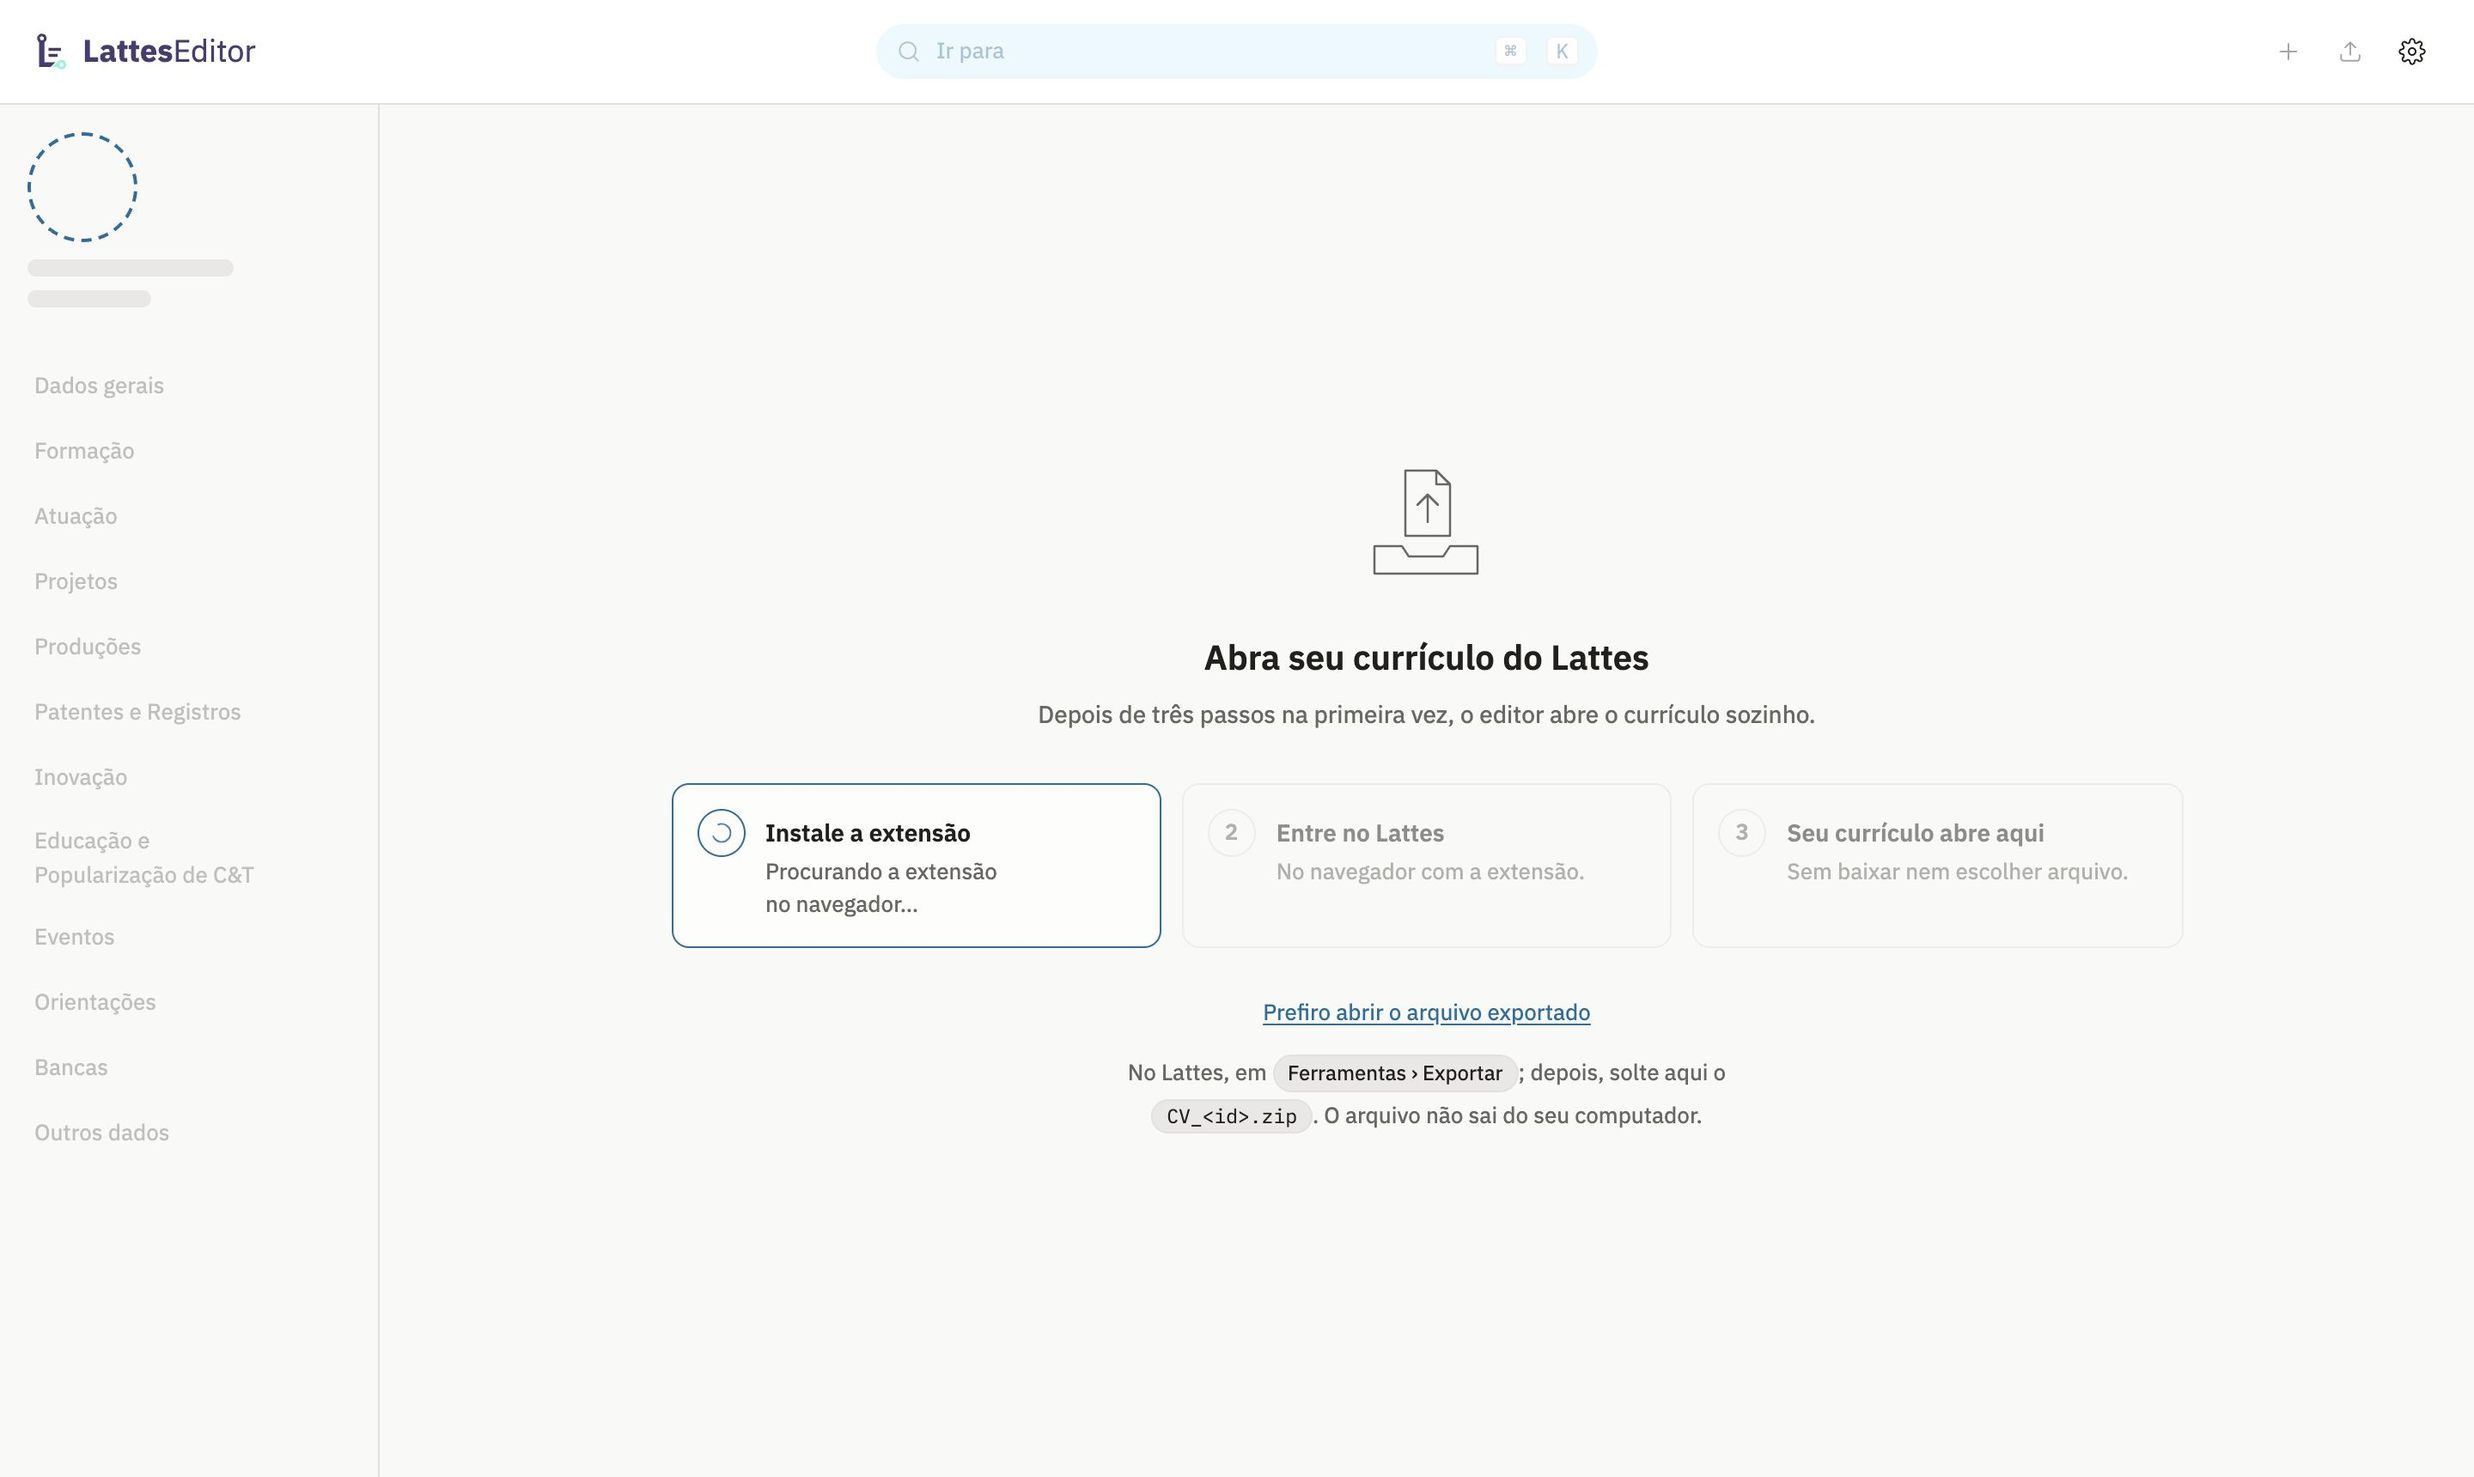
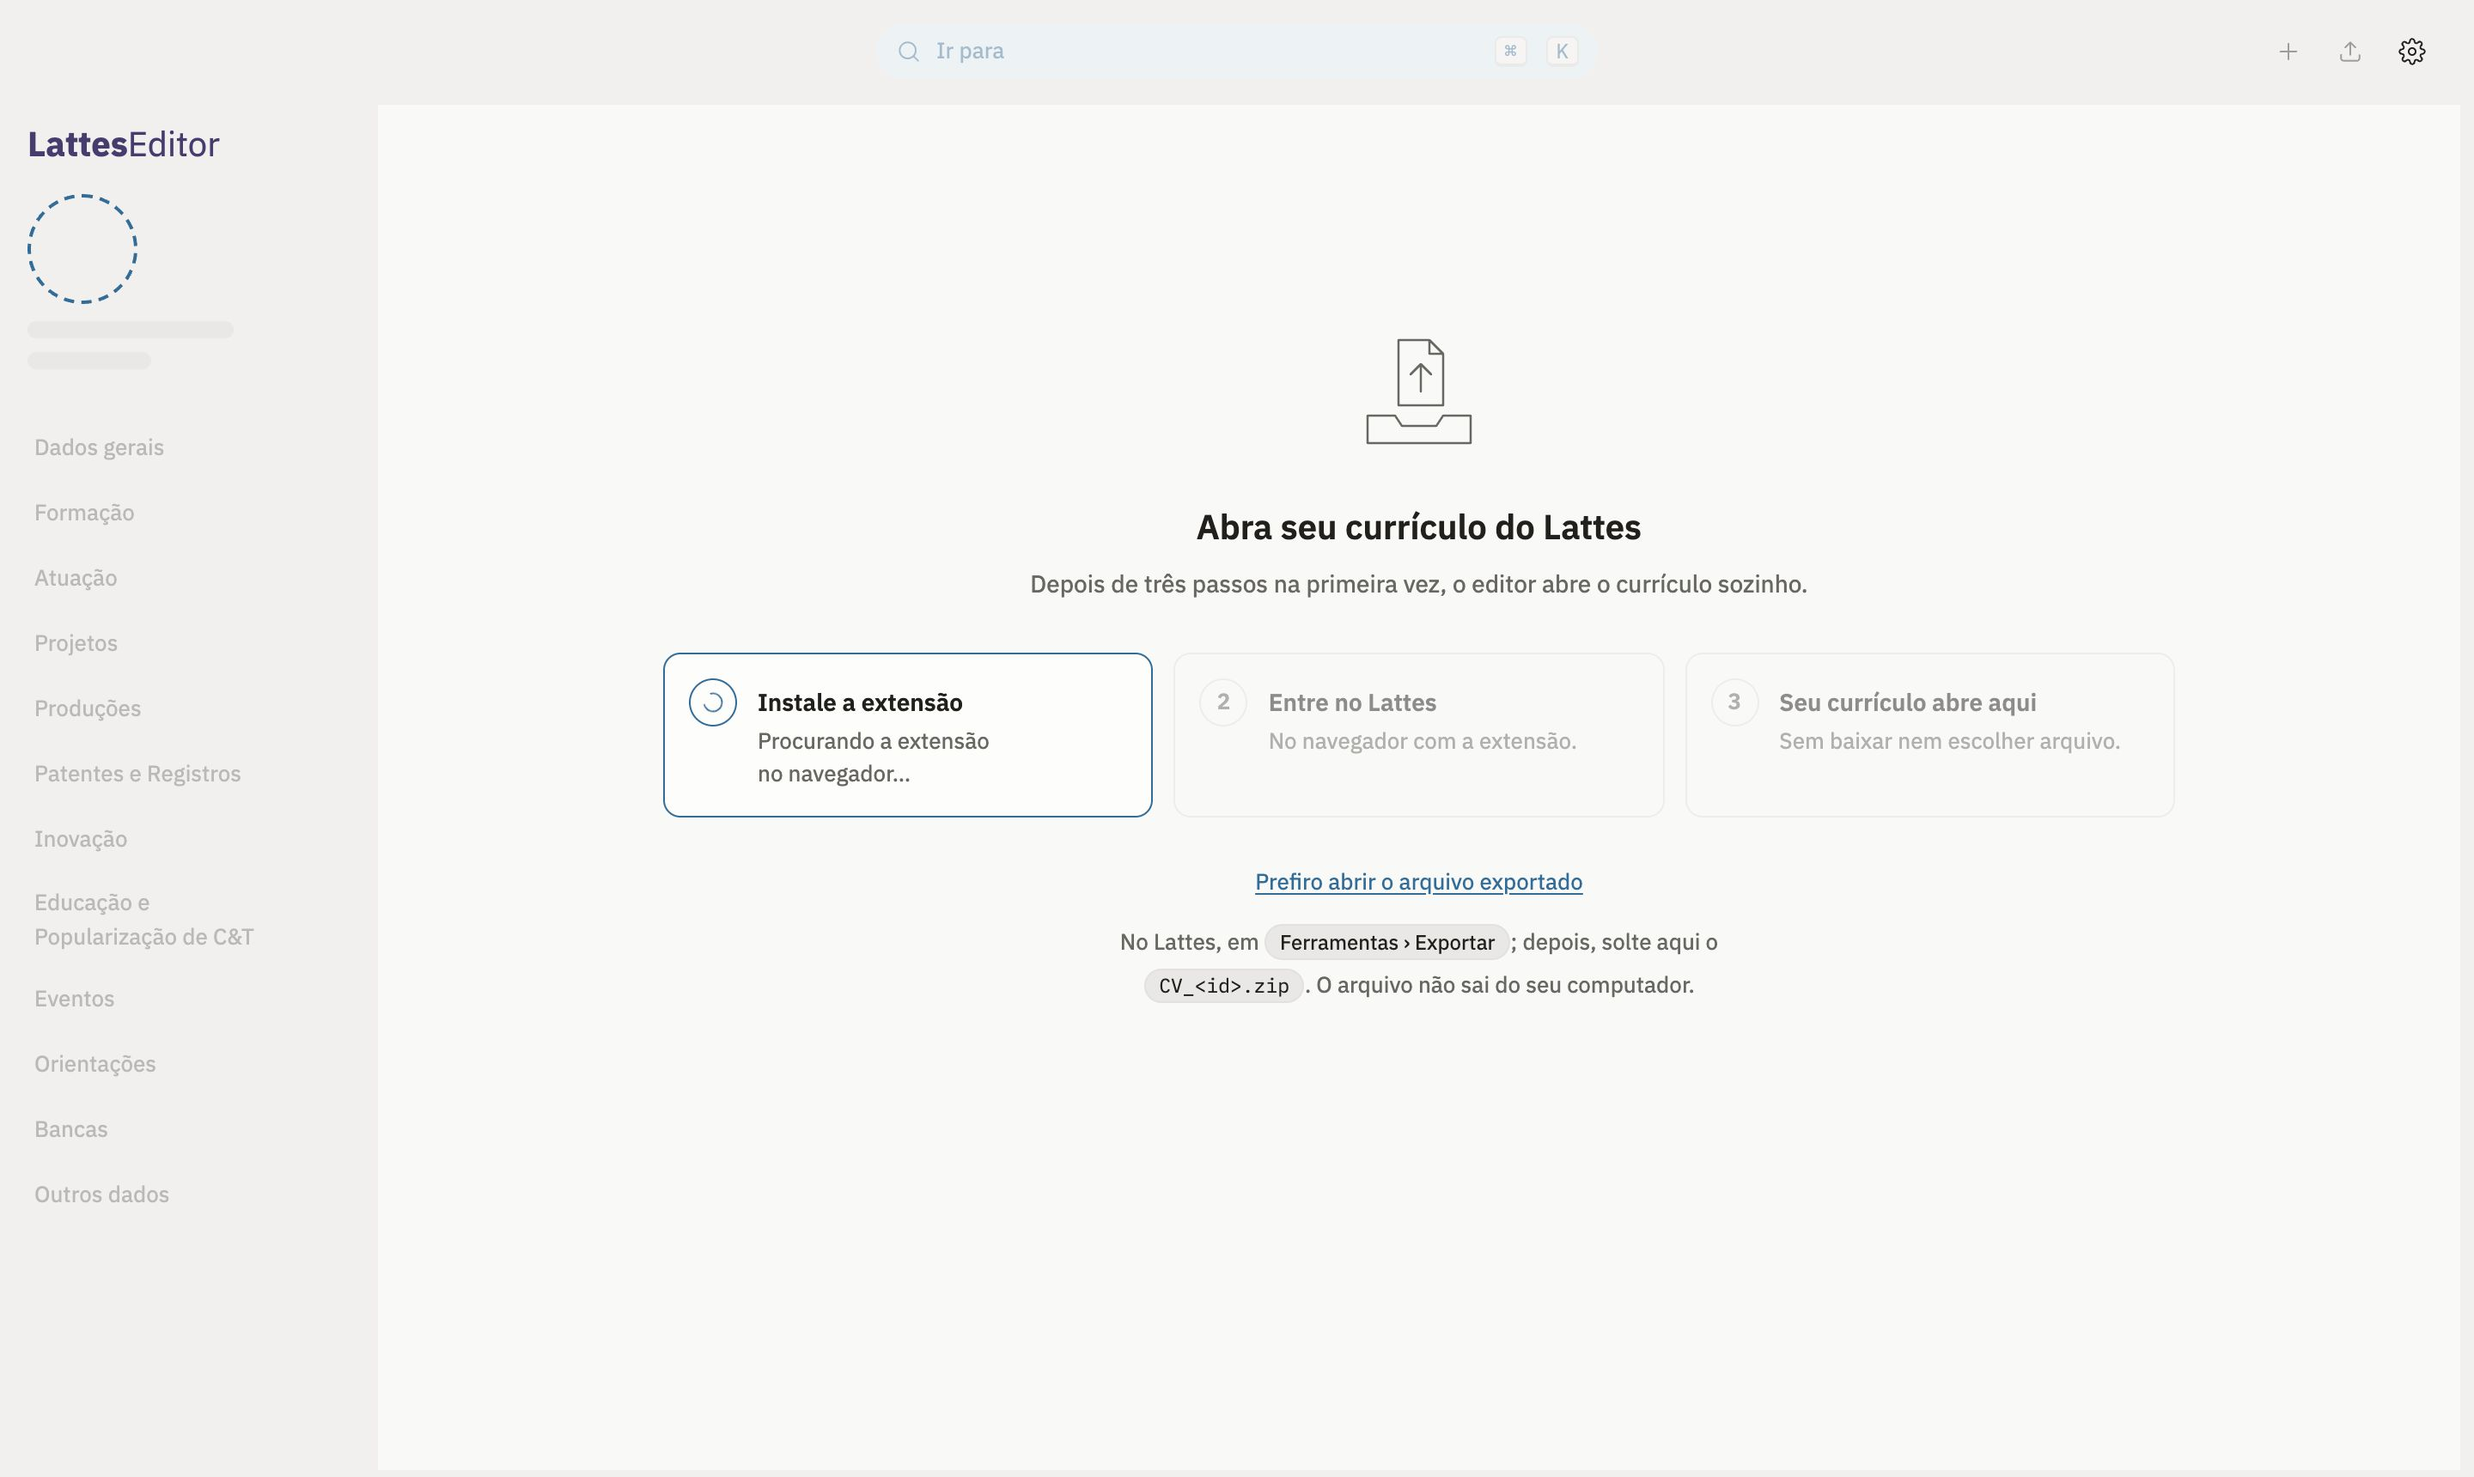
fix: animação da Saúde do currículo clica numa linha com itens faltando
A primeira gravação clicava na primeira linha, Artigos com DOI, que no
currículo de demonstração está completa, e nada acontecia. Agora é a de
palavras-chave, que abre Produções com o filtro Sem palavras-chave. A
imagem do README que a captura regenerou volta ao que era.

diff --git a/scripts/capture-animacoes.ts b/scripts/capture-animacoes.ts
@@ -148,10 +148,14 @@ const SCENES: Scene[] = [
   {
     // Saúde do currículo: uma contagem do que falta abre a seção filtrada.
     name: 'panorama-health',
-    run: async ({ click, evaluate, hold }) => {
+    run: async ({ evaluate, hold }) => {
       await evaluate(`location.hash = 'panorama/saude-do-curriculo'; await settle()`);
       await hold(10);
-      await click('.pano-check');
+      // Uma linha com itens faltando: a de palavras-chave (6 de 10 no demo).
+      await evaluate(`await wait('.pano-check');
+        [...document.querySelectorAll('.pano-check')]
+          .find((line) => line.textContent.includes('palavras-chave'))
+          .click()`);
       await hold(16);
     },
   },
